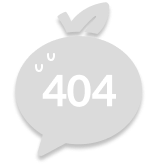
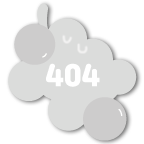
#244 - Refactor: 샤인마스켓 디자인 업데이트 + 채팅창 배경화면 수정

diff --git a/src/pages/ChatRoom/ChatRoom.jsx b/src/pages/ChatRoom/ChatRoom.jsx
@@ -10,28 +10,30 @@ export default function ChatRoom() {
     <>
       <TopMenuBar menuText="애월읍 샤인머스캣 농장" moreButton="true" />
       <ChatSection>
-        <h2 className="ir">채팅창</h2>
-        <FriendChatBox>
-          <ProfileImg src={BasicProfileImg} alt="상대 프로필 이미지"></ProfileImg>
-          <ChatTxt>
-            옷을 인생을 그러므로 없으면 것은 이상은 것은 우리의 위하여, 뿐이다. 이상의 청춘의 뼈
-            따뜻한 그들의 그와 약동하다. 대고, 못할 넣는 풍부하게 뛰노는 인생의 힘있다.
-          </ChatTxt>
-          <TimeTxt>12:39</TimeTxt>
-        </FriendChatBox>
-        <FriendChatBox>
-          <ProfileImg src={BasicProfileImg} alt="상대 프로필 이미지"></ProfileImg>
-          <ChatTxt>샤인머스캣 사고싶어요요요요요요</ChatTxt>
-          <TimeTxt>12:41</TimeTxt>
-        </FriendChatBox>
-        <MyChatBox>
-          <ChatTxt>네 말씀하세요.</ChatTxt>
-          <TimeTxt>12:50</TimeTxt>
-        </MyChatBox>
-        <MyChatBox>
-          <ChatImg src={SendImg} alt="전송된 이미지" />
-          <TimeTxt>12:51</TimeTxt>
-        </MyChatBox>
+        <ChatWrap>
+          <h2 className="ir">채팅창</h2>
+          <FriendChatBox>
+            <ProfileImg src={BasicProfileImg} alt="상대 프로필 이미지"></ProfileImg>
+            <ChatTxt>
+              옷을 인생을 그러므로 없으면 것은 이상은 것은 우리의 위하여, 뿐이다. 이상의 청춘의 뼈
+              따뜻한 그들의 그와 약동하다. 대고, 못할 넣는 풍부하게 뛰노는 인생의 힘있다.
+            </ChatTxt>
+            <TimeTxt>12:39</TimeTxt>
+          </FriendChatBox>
+          <FriendChatBox>
+            <ProfileImg src={BasicProfileImg} alt="상대 프로필 이미지"></ProfileImg>
+            <ChatTxt>샤인머스캣 사고싶어요요요요요요</ChatTxt>
+            <TimeTxt>12:41</TimeTxt>
+          </FriendChatBox>
+          <MyChatBox>
+            <ChatTxt>네 말씀하세요.</ChatTxt>
+            <TimeTxt>12:50</TimeTxt>
+          </MyChatBox>
+          <MyChatBox>
+            <ChatImg src={SendImg} alt="전송된 이미지" />
+            <TimeTxt>12:51</TimeTxt>
+          </MyChatBox>
+        </ChatWrap>
       </ChatSection>
       <PostTextBar name="chat" placeholder="메시지 입력하기" buttonText="전송" />
     </>
@@ -39,13 +41,22 @@ export default function ChatRoom() {
 }
 
 const ChatSection = styled.section`
-  padding: 30px 16px 230px 16px;
-  background-color: #f2f2f2;
   font-size: 14px;
   font-weight: 400;
   line-height: 18px;
   text-align: left;
 `;
+
+const ChatWrap = styled.div`
+  padding: 70px 16px;
+  background-color: #f2f2f2;
+  position: absolute;
+  top: 0px;
+  left: 0px;
+  right: 0px;
+  bottom: 0px;
+  z-index: -10;
+`
 
 const FriendChatBox = styled.div`
   display: flex;
@@ -75,7 +86,7 @@ const ChatTxt = styled.p`
     border-top-right-radius: 0;
     border-top-left-radius: 10px;
     color: white;
-    background-color: #c1deae;
+    background-color: var(--color-deep-bg);
   }
   &:nth-child(2) {
     border-top-left-radius: 0;

diff --git a/src/components/TabMenu/TabMenu.jsx b/src/components/TabMenu/TabMenu.jsx
@@ -2,13 +2,13 @@ import React from 'react';
 import styled from 'styled-components';
 
 import IconHome from '../../assets/icon/icon-home.svg';
-import IconHomeHover from '../../assets/icon/icon-home-fill.svg';
+import IconHomeHover from '../../assets/icon/icon-home-fill.png';
 import IconChat from '../../assets/icon/icon-message-circle.png';
-import IconChatHover from '../../assets/icon/icon-message-circle.svg';
+import IconChatHover from '../../assets/icon/icon-message-circle-fill.png';
 import IconUpload from '../../assets/icon/icon-edit.png';
 import IconUploadHover from '../../assets/icon/icon-edit.svg';
 import IconMyprofile from '../../assets/icon/icon-user.png';
-import IconMyprofileHover from '../../assets/icon/icon-user.svg';
+import IconMyprofileHover from '../../assets/icon/icon-user-fill.png';
 
 import { useHistory } from 'react-router-dom';
 import { useSelector } from 'react-redux';
@@ -28,8 +28,7 @@ const Footer = styled.ul`
     padding: 15px 0 10px;
     cursor: pointer;
     &:hover > p {
-      /* color: var(--color-enabled); */
-      color: black;
+      color: var(--color-deep-bg);
     }
   }
 

diff --git a/src/components/TopMenuBar/TopMenuBar.jsx b/src/components/TopMenuBar/TopMenuBar.jsx
@@ -67,6 +67,8 @@ const Container = styled.section`
   align-items: center;
   border-bottom: 1px solid #dbdbdb;
   padding: 8px 20px;
+  background-color: var(--color-deep-bg);
+  color: #fff;
 `;
 
 const PreviousBtn = styled.button`
@@ -90,7 +92,7 @@ const MenuText = styled.h1`
 `;
 
 const HomeText = styled.h1`
-  padding-left: 5px;
+  padding: 5px;
   font-size: 18px;
   font-weight: 500;
   line-height: 22px;
@@ -119,7 +121,7 @@ const SearchModal = styled.fieldset`
     border: none;
     border-radius: 32px;
     width: 100%;
-    padding: 8px 16px;
+    padding: 4px 16px;
     box-sizing: border-box;
     font: 14px/14px 'Spoqa Han Sans Neo';
     color: #c4c4c4;

diff --git a/src/styles/app.css b/src/styles/app.css
@@ -6,6 +6,7 @@
   --color-enabled-dark: #b6eb7a;
   --color-disabled: #888888;
   --color-active: #fff;
+  --color-deep-bg: #637D59;
   font-family: 'Spoqa Han Sans Neo', 'sans-serif';
 }
 

diff --git a/src/components/Modal/LogoutModal.jsx b/src/components/Modal/LogoutModal.jsx
@@ -75,6 +75,7 @@ const LogoutText = styled.p`
   font-size: 16px;
   line-height: 20px;
   padding: 22px 56px;
+  color: #000;
 `;
 
 const FuncButton = styled.button`
